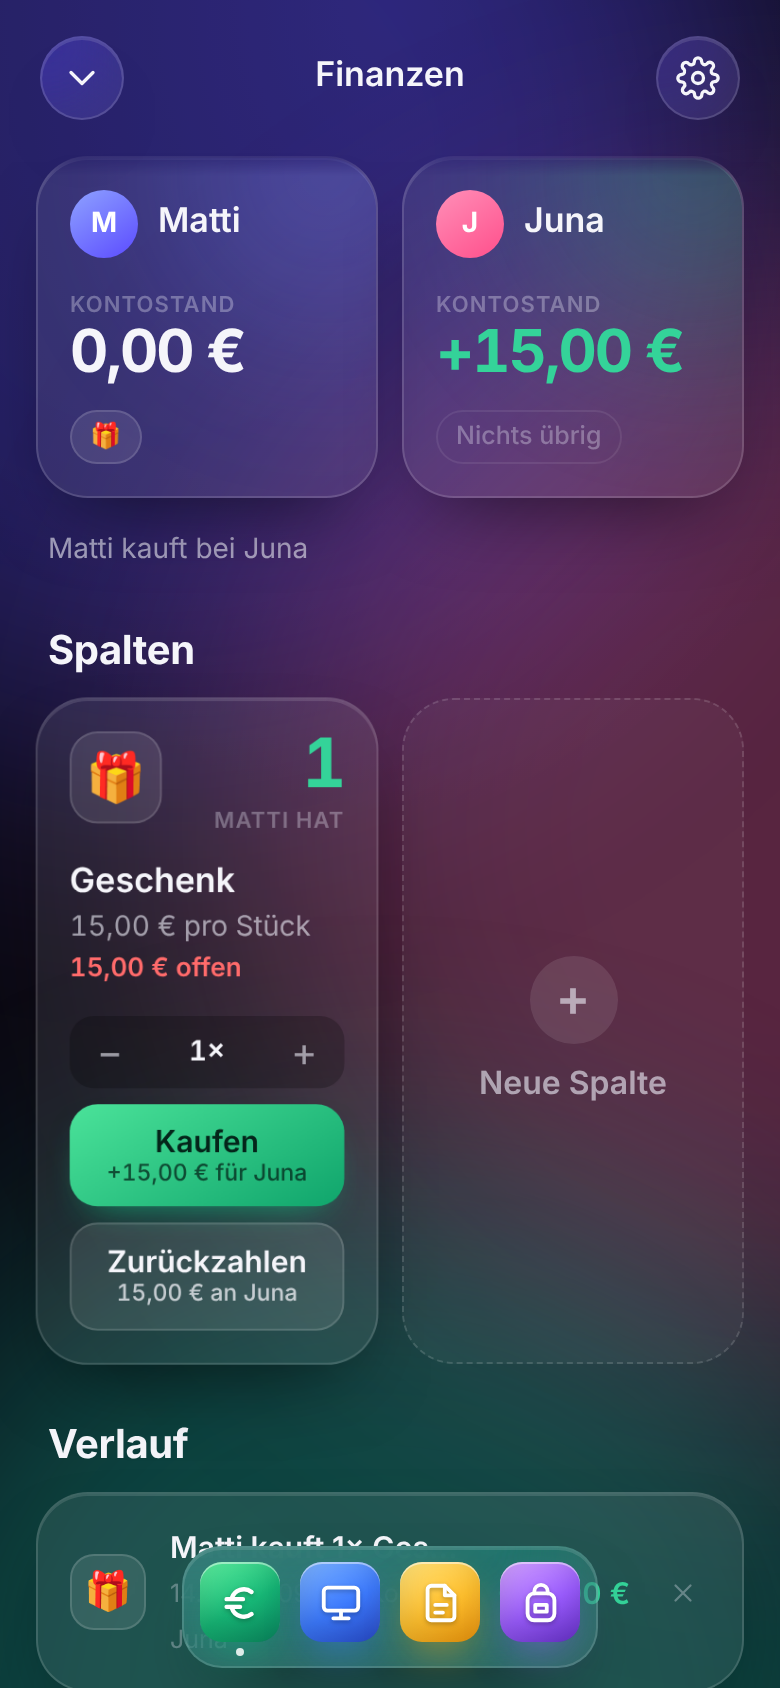
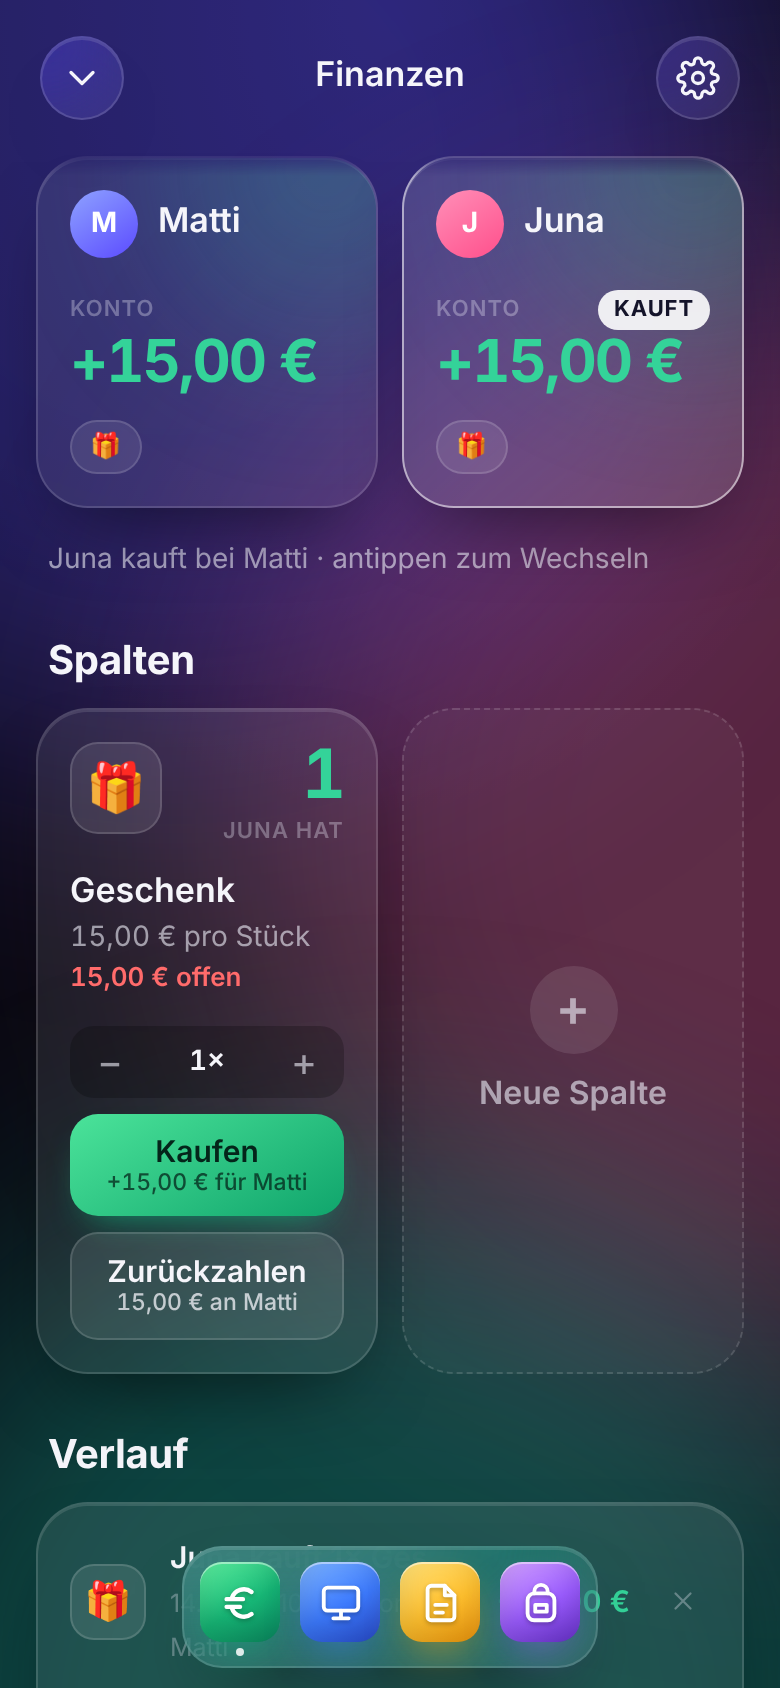
Kontokarten antippbar: wechselt, wer kauft
Claude-Session: https://claude.ai/code/session_01HP4ZGYUmZQyzGZFQVh1CYh

diff --git a/app.js b/app.js
@@ -106,18 +106,18 @@
       <div class="accts">${state.people.map((p) => {
         const bal = balance(p.id);
         return `
-        <article class="acct glass ${tone(bal)}">
+        <button class="acct glass ${tone(bal)} ${p.id === b ? 'me' : ''}" data-action="buyer" data-k="${p.id}" aria-pressed="${p.id === b}">
           <div class="pair">${avatar(p.id)}<span>${esc(who(p.id))}</span></div>
-          <div class="label">Kontostand</div>
+          <div class="label">Konto${p.id === b ? '<span class="tag">kauft</span>' : ''}</div>
           <div class="amount">${amount(bal)}</div>
           <div class="chips">${heldChips(p.id) || '<span class="chip none">Nichts übrig</span>'}</div>
-        </article>`;
+        </button>`;
       }).join('')}
       </div>
       ${state.people.length > 2 ? `
       <div class="seg-label">Bei wem kauft ${esc(who(b))}?</div>
       ${pick('seller', state.people.filter((p) => p.id !== b), sl)}` : `
-      <div class="ctx">${esc(who(b))} kauft bei ${esc(who(sl))}</div>`}`;
+      <div class="ctx">${esc(who(b))} kauft bei ${esc(who(sl))} · antippen zum Wechseln</div>`}`;
   }
 
   function renderItems() {

diff --git a/styles.css b/styles.css
@@ -309,3 +309,9 @@ body.sheet-open .sheet { transform: none; }
 
 .ctx { margin: 16px 6px 0; font-size: 14px; color: var(--muted); }
 .pick.in-sheet { padding: 0 2px; }
+
+button.acct { display: block; width: 100%; text-align: left; transition: transform .2s var(--ease), border-color .3s, background .3s; }
+button.acct:active { transform: scale(.97); }
+.acct.me { border-color: rgba(255, 255, 255, .55); background: rgba(255, 255, 255, .14); }
+.acct .label { display: flex; align-items: center; justify-content: space-between; min-height: 20px; }
+.acct .tag { padding: 2px 8px; border-radius: 999px; background: rgba(255, 255, 255, .9); color: #14142a; font-size: 11px; font-weight: 700; letter-spacing: .04em; text-transform: uppercase; }
